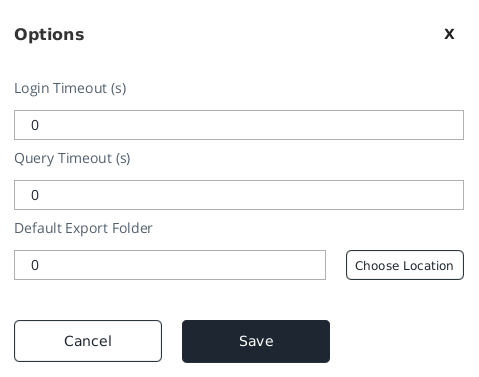
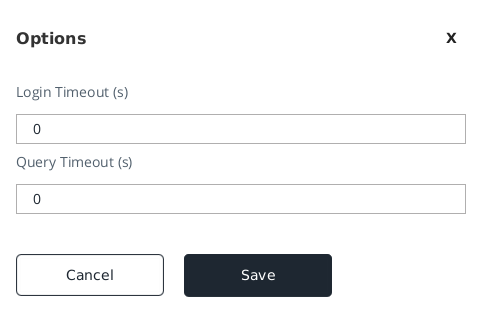
feat: remove option to set default export lob folder

diff --git a/src/main/java/ch/admin/bar/siardsuite/presenter/option/OptionDialogPresenter.java b/src/main/java/ch/admin/bar/siardsuite/presenter/option/OptionDialogPresenter.java
@@ -34,10 +34,6 @@ public class OptionDialogPresenter extends DialogPresenter {
     @FXML
     public MFXTextField queryTimeoutText;
     @FXML
-    public MFXButton folderButton;
-    @FXML
-    public MFXTextField exportFolderText;
-    @FXML
     public MFXTextField  loginTimeoutText;;
 
     @Override
@@ -51,9 +47,6 @@ public class OptionDialogPresenter extends DialogPresenter {
         I18n.bind(loginTimeoutText.promptTextProperty(), "option.dialog.login-timeout.placeholder");
         I18n.bind(queryTimeoutText.floatingTextProperty(), "option.dialog.query-timeout.label");
         I18n.bind(queryTimeoutText.promptTextProperty(), "option.dialog.query-timeout.placeholder");
-        I18n.bind(exportFolderText.floatingTextProperty(), "option.dialog.export-path.label");
-        I18n.bind(folderButton.textProperty(), "option.dialog.export-path.button");
-        folderButton.setOnAction(this::handleSetExportPath);
         closeButton.setOnAction(event -> stage.closeDialog());
         MFXButton save = new DialogButton(true, "button.save");
         buttonBox.getChildren().addAll(new CloseDialogButton(this.stage),
@@ -66,7 +59,6 @@ public class OptionDialogPresenter extends DialogPresenter {
 
     private void saveOptions() {
         final Preferences preferences = UserPreferences.node(OPTIONS);
-        preferences.put(EXPORT_PATH.name(), exportFolderText.getText());
         preferences.put(QUERY_TIMEOUT.name(), queryTimeoutText.getText());
         preferences.put(LOGIN_TIMEOUT.name(), loginTimeoutText.getText());
         stage.closeDialog();
@@ -74,22 +66,8 @@ public class OptionDialogPresenter extends DialogPresenter {
 
     private void initFormFields() {
         final Preferences preferences = UserPreferences.node(OPTIONS);
-        exportFolderText.setText(preferences.get(EXPORT_PATH.name(), "0"));
         queryTimeoutText.setText(preferences.get(QUERY_TIMEOUT.name(), "0"));
         loginTimeoutText.setText(preferences.get(LOGIN_TIMEOUT.name(), "0"));
     }
 
-    private void handleSetExportPath(ActionEvent actionEvent) {
-        final DirectoryChooser directoryChooser = new DirectoryChooser();
-        directoryChooser.setTitle(I18n.get("export.choose-location.text"));
-        File file = directoryChooser.showDialog(stage);
-        if (Objects.nonNull(file)) {
-            try {
-                exportFolderText.setText(file.getAbsolutePath());
-            } catch (Exception e) {
-                // TODO: show failure message
-                e.printStackTrace();
-            }
-        }
-    }
 }
